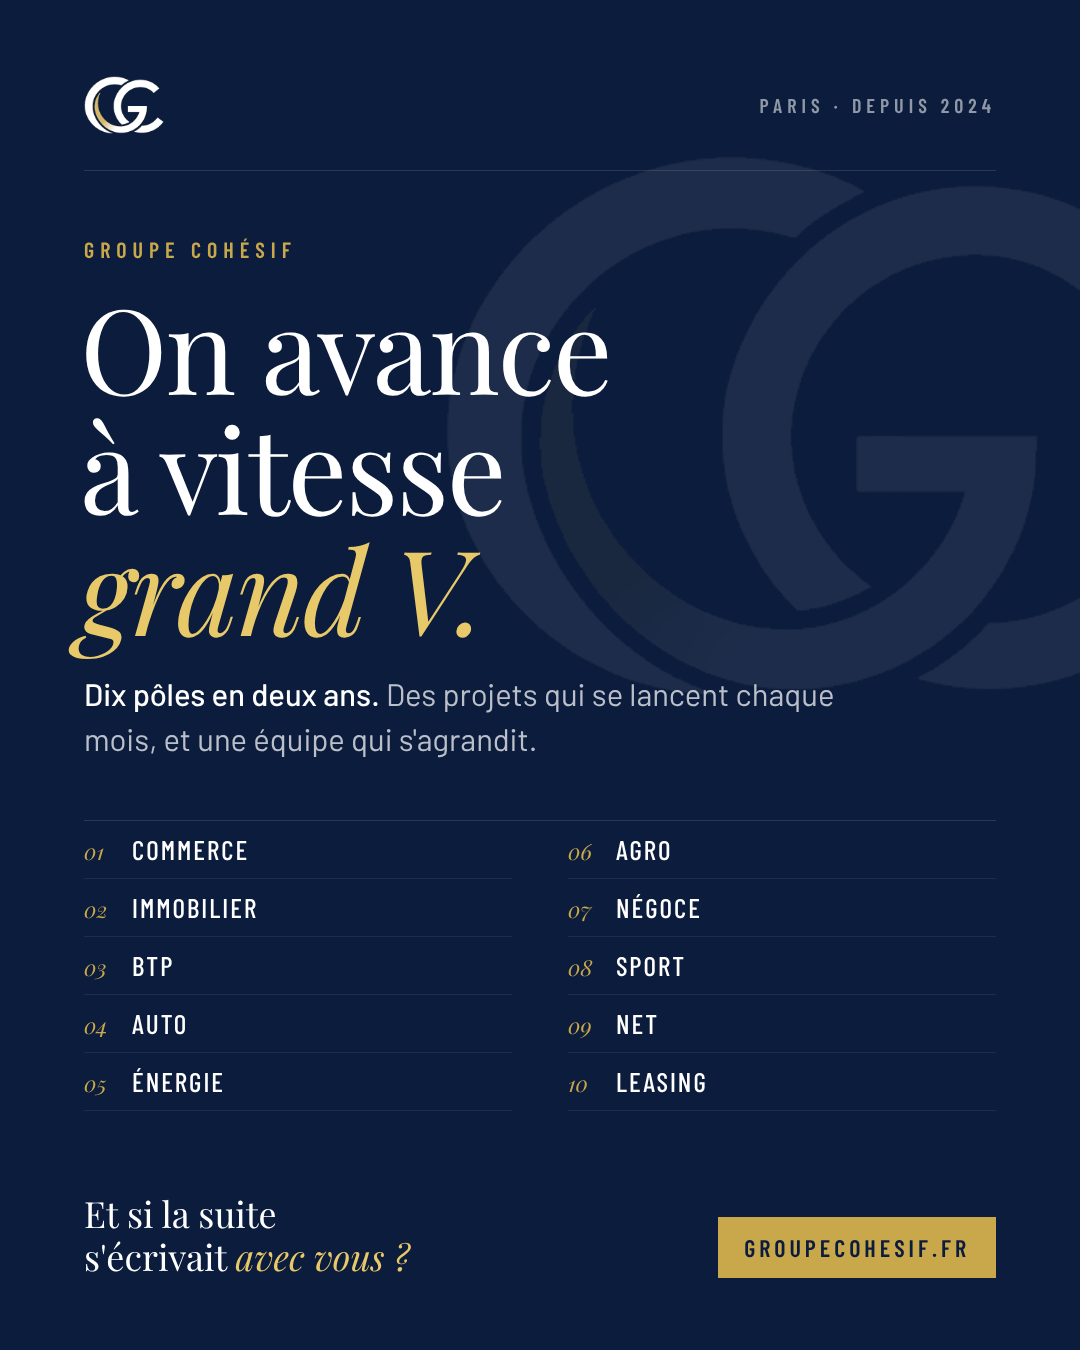
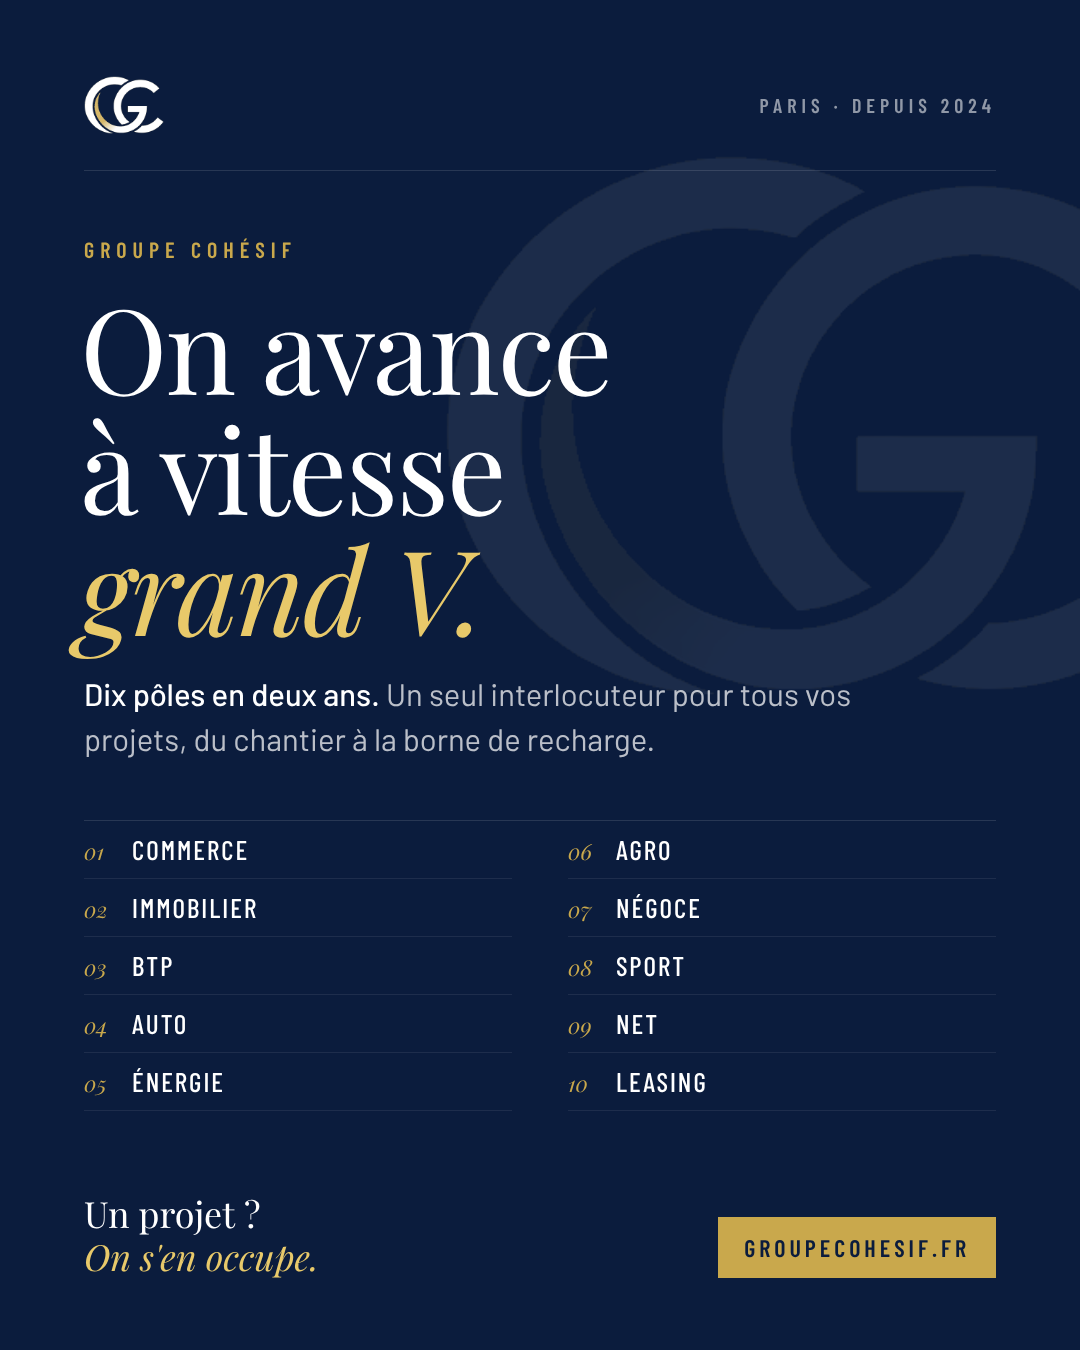
Post « vitesse grand V » : orienté clients
Claude-Session: https://claude.ai/code/session_014UmVBjGevPEntUtYHN4b9w

Changed region(s): [[0.0917, 0.4978, 0.7944, 0.56], [0.0611, 0.8711, 0.3361, 0.9644]]

diff --git a/social_media/posts/vitesse-grand-v.html b/social_media/posts/vitesse-grand-v.html
@@ -30,7 +30,7 @@ h1 em{font-style:italic;color:#e8c96a}
 <div class="rule"></div>
 <div class="kicker">Groupe Cohésif</div>
 <h1>On avance<br>à vitesse<br><em>grand V.</em></h1>
-<p class="lead"><b>Dix pôles en deux ans.</b> Des projets qui se lancent chaque mois, et une équipe qui s'agrandit.</p>
+<p class="lead"><b>Dix pôles en deux ans.</b> Un seul interlocuteur pour tous vos projets, du chantier à la borne de recharge.</p>
 <div class="poles">
   <div><span>01</span>Commerce</div><div><span>06</span>Agro</div>
   <div><span>02</span>Immobilier</div><div><span>07</span>Négoce</div>
@@ -39,7 +39,7 @@ h1 em{font-style:italic;color:#e8c96a}
   <div><span>05</span>Énergie</div><div><span>10</span>Leasing</div>
 </div>
 <div class="foot">
-  <div class="cta">Et si la suite<br>s'écrivait <i>avec vous&nbsp;?</i></div>
+  <div class="cta">Un projet&nbsp;?<br><i>On s'en occupe.</i></div>
   <div class="url">groupecohesif.fr</div>
 </div>
 </body></html>

diff --git a/social_media/posts/vitesse-grand-v.md b/social_media/posts/vitesse-grand-v.md
@@ -1,20 +1,18 @@
 Le Groupe Cohésif se développe à vitesse grand V.
 
-Il y a deux ans, on démarrait à Paris avec une idée simple : des entreprises différentes qui avancent mieux ensemble qu'en solo.
-
-Aujourd'hui, on compte dix pôles :
+En deux ans, on est passés de quelques activités à dix pôles :
 Commerce, Immobilier, BTP, Auto, Énergie, Agro, Négoce, Sport, Net et Leasing.
 
-Chaque pôle a ses équipes et ses clients. Tous partagent le même réseau, les mêmes ressources et la même envie d'aller loin.
-Un chantier BTP qui a besoin de matériaux ? Le Négoce est là. Une flotte qui passe à l'électrique ? Auto et Énergie travaillent main dans la main.
+Pour vous, ça change tout : un seul interlocuteur pour plusieurs besoins.
 
-Et ce n'est que le début.
+Vous rénovez un local ? Le BTP s'occupe du chantier, le Négoce fournit les matériaux, le Leasing finance l'équipement.
+Vous passez votre flotte à l'électrique ? Auto et Énergie s'en chargent ensemble, véhicules et bornes de recharge compris.
+Vous cherchez un bien hors marché ? Notre réseau immobilier privé est là pour ça.
 
-On cherche des gens qui ont envie de construire avec nous :
-→ des talents qui veulent rejoindre une structure qui bouge,
-→ des partenaires qui veulent grandir avec un groupe solide,
-→ des clients qui veulent un seul interlocuteur pour plusieurs besoins.
+Moins d'intermédiaires, moins de délais, et une équipe qui connaît votre dossier de A à Z.
 
-Vous vous reconnaissez ? Venez découvrir le groupe sur groupecohesif.fr ou écrivez-nous à contact@groupecohesif.fr.
+Un projet en tête ? Parlons-en.
+groupecohesif.fr
+contact@groupecohesif.fr
 
-#GroupeCohesif #Entrepreneuriat #Croissance #Paris #BTP #Immobilier #Energie #Recrutement
+#GroupeCohesif #Entreprise #Paris #BTP #Immobilier #Energie #Automobile #Leasing
